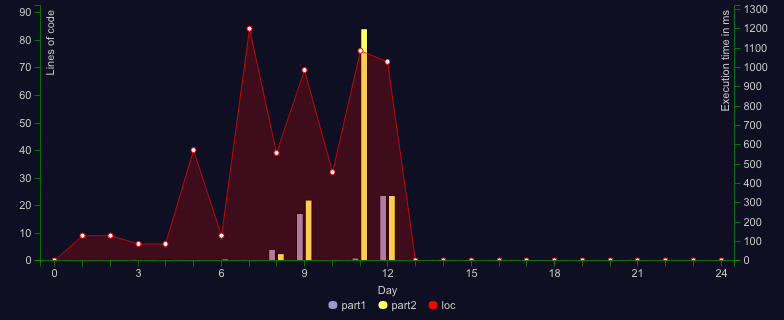
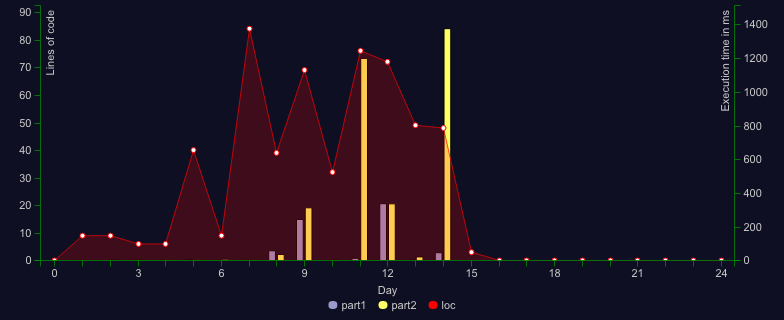
day 13: done

diff --git a/src/day13/index.ts b/src/day13/index.ts
@@ -1,0 +1,105 @@
+import run from "aocrunner"
+import { head, sort, split, sum } from "ramda"
+import { isArray, isNumber } from "ramda-adjunct"
+
+type Val = number | Vals
+type Vals = Val[]
+type Group = {
+  first: Vals
+  second: Vals
+}
+
+type EvalResult = "ordered" | "unordered" | "unsure"
+
+const checkOrder = ([left, right]: [Val, Val]): EvalResult => {
+  if (isNumber(left) && isNumber(right)) {
+    return left === right ? "unsure" : left < right ? "ordered" : "unordered"
+  }
+  if (isArray(left) && isArray(right)) {
+    if (left.length === 0 && right.length === 0) {
+      return "unsure"
+    }
+    if (left.length === 0 || right.length === 0) {
+      return left.length === 0 ? "ordered" : "unordered"
+    }
+    const headRes = checkOrder([head(left)!, head(right)!])
+    return headRes === "unsure" ? checkOrder([left.slice(1), right.slice(1)]) : headRes
+  }
+  if (isNumber(left) && isArray(right)) {
+    return checkOrder([[left], right])
+  }
+  if (isArray(left) && isNumber(right)) {
+    return checkOrder([left, [right]])
+  }
+  return "unordered"
+}
+
+async function part1(input: string): Promise<number> {
+  const groups = split(/\n\s*\n/, input).map((group) => {
+    const [first, second] = group.split("\n").map((x) => JSON.parse(x.trim()))
+    return { first, second } as Group
+  })
+
+  return sum(
+    groups.map((group, idx) =>
+      checkOrder([group.first, group.second]) === "ordered" ? idx + 1 : 0,
+    ),
+  )
+}
+
+async function part2(input: string): Promise<number> {
+  const targets = [[[2]], [[6]]]
+  const groups: Vals[] = split(/\n\s*\n/, input)
+    .flatMap((group) => group.split("\n").map((x) => JSON.parse(x.trim())))
+    .concat(targets)
+  const sorted = sort((a, b) => (checkOrder([a, b]) === "ordered" ? -1 : 1), groups)
+  const indices = targets.map((target) => sorted.indexOf(target) + 1)
+  return indices[0] * indices[1]
+}
+
+run({
+  part1: {
+    tests: [
+      {
+        input: `
+          [1,1,3,1,1]
+          [1,1,5,1,1]
+
+          [[1],[2,3,4]]
+          [[1],4]
+
+          [9]
+          [[8,7,6]]
+
+          [[4,4],4,4]
+          [[4,4],4,4,4]
+
+          [7,7,7,7]
+          [7,7,7]
+
+          []
+          [3]
+
+          [[[]]]
+          [[]]
+
+          [1,[2,[3,[4,[5,6,7]]]],8,9]
+          [1,[2,[3,[4,[5,6,0]]]],8,9]
+        `,
+        expected: 13,
+      },
+    ],
+    solution: part1,
+  },
+  part2: {
+    tests: [
+      // {
+      //   input: ``,
+      //   expected: "",
+      // },
+    ],
+    solution: part2,
+  },
+  trimTestInputs: true,
+  onlyTests: false,
+})

diff --git a/src/day13/README.md b/src/day13/README.md
@@ -1,0 +1,9 @@
+# 🎄 Advent of Code 2022 - day 13 🎄
+
+## Info
+
+Task description: [link](https://adventofcode.com/2022/day/13)
+
+## Notes
+
+...
